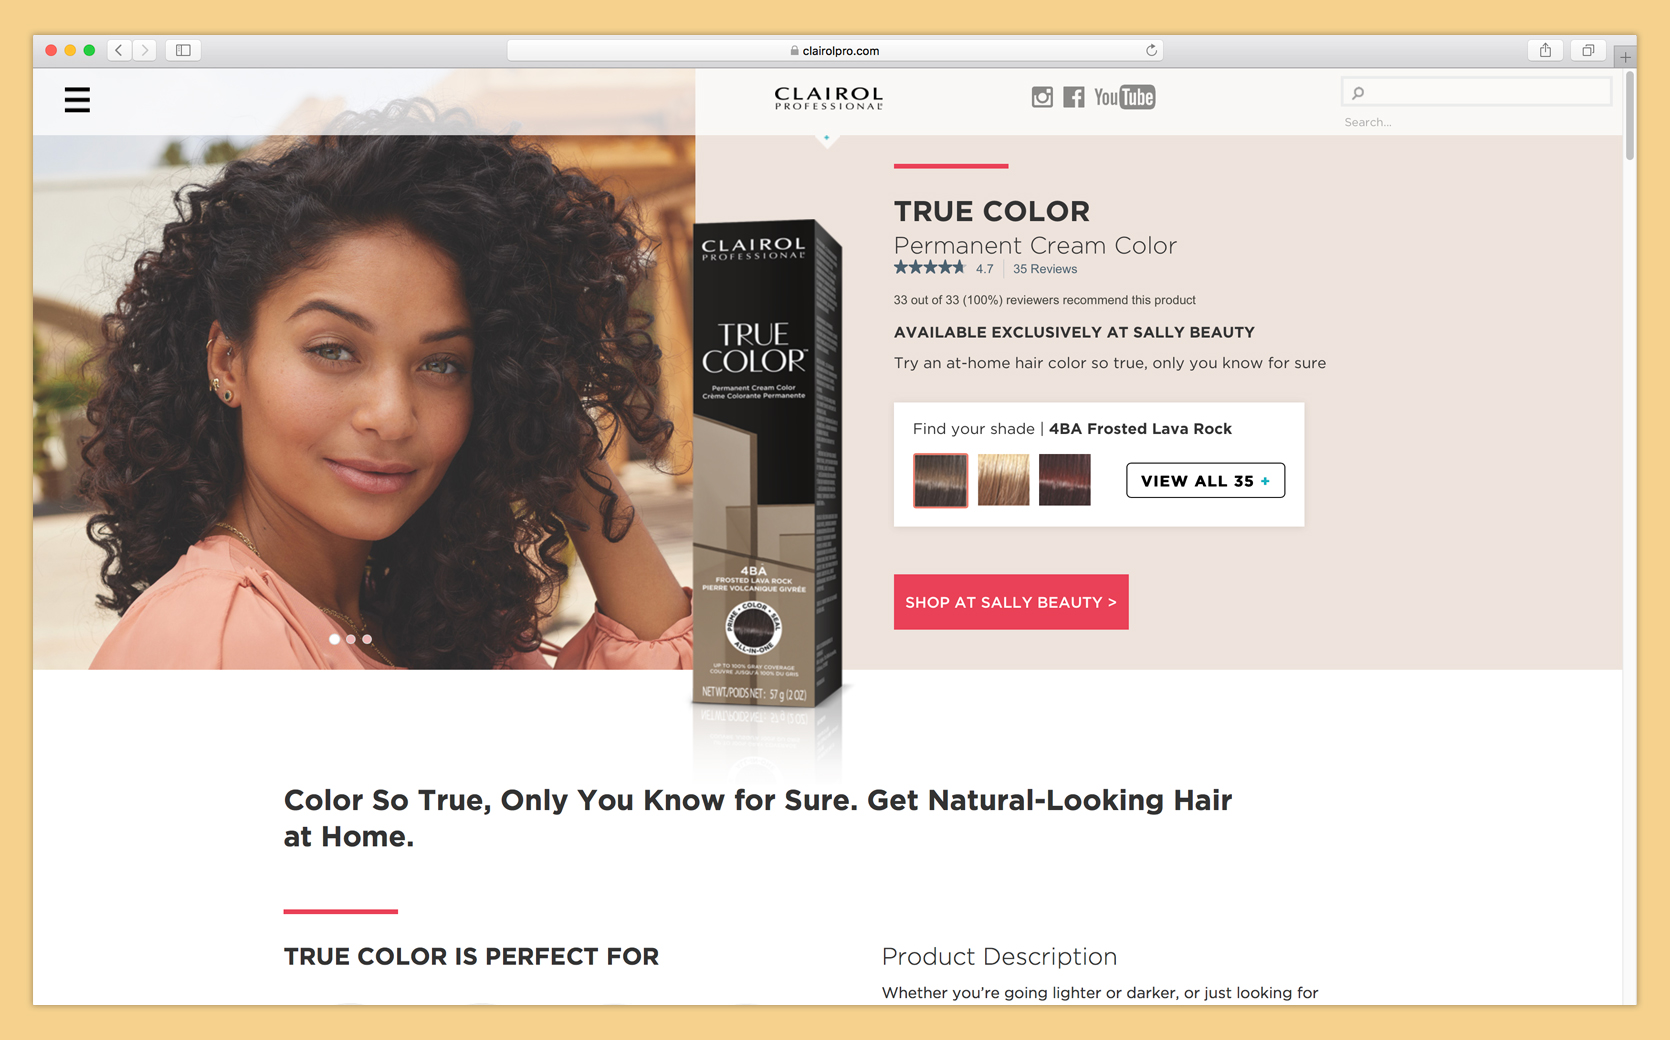
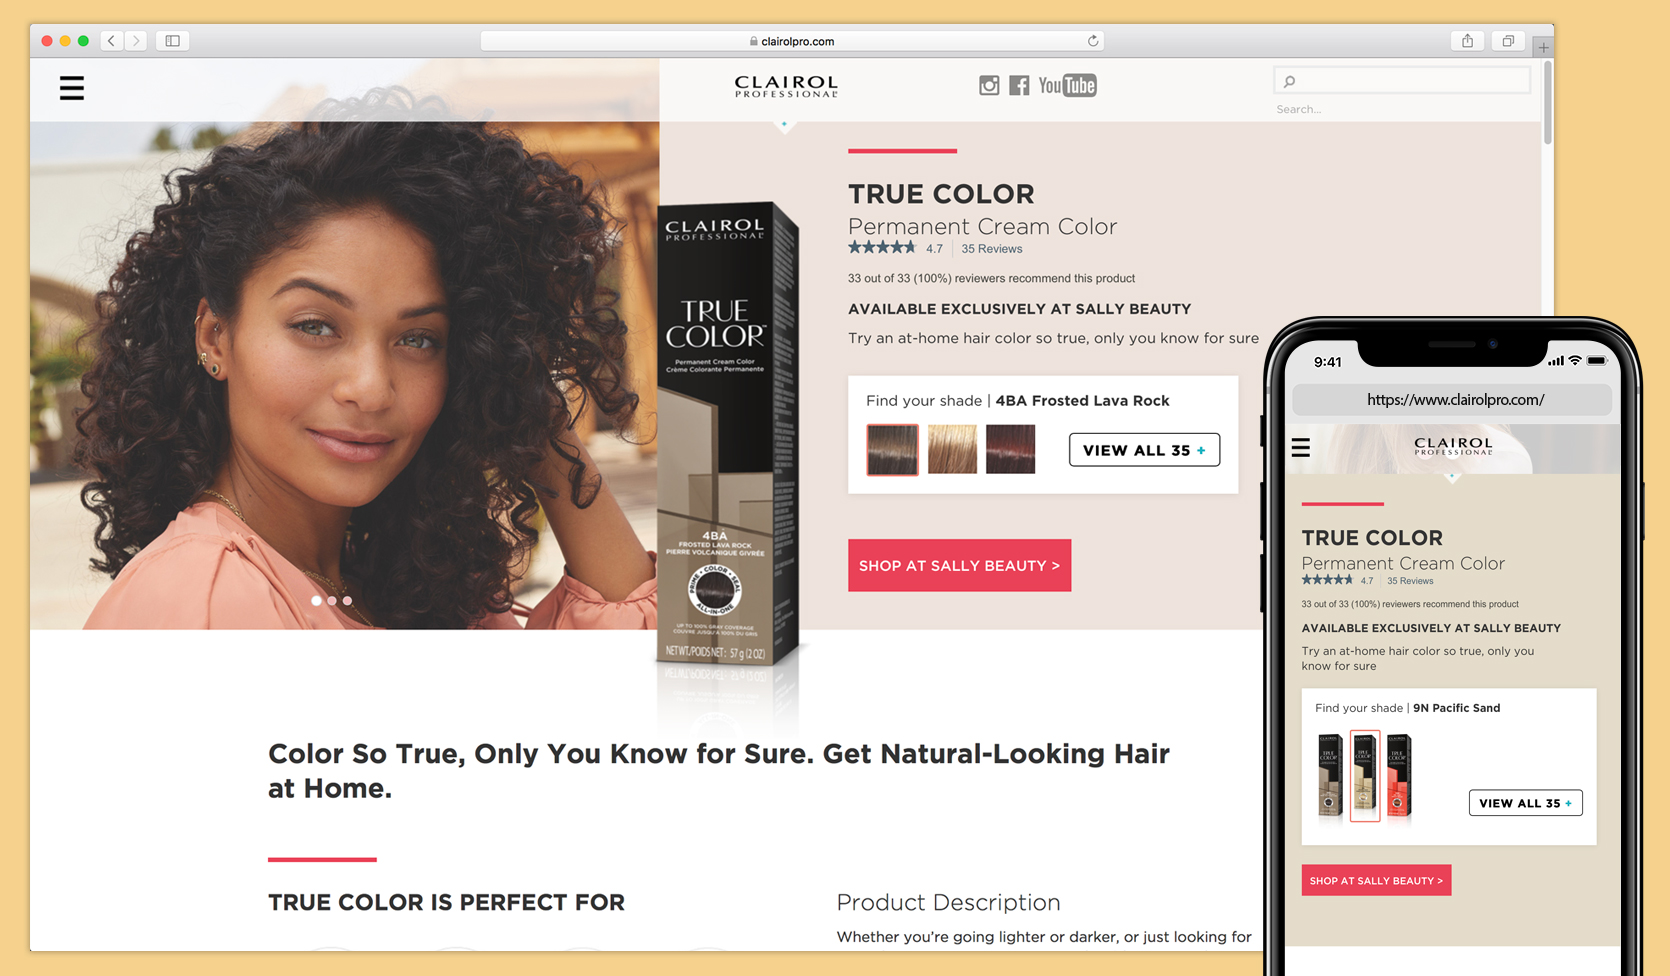
adding portfolio images for first 4 projects

Changed region(s): [[0.0, 0.0, 0.9964, 1.0], [0.0311, 0.6148, 0.0623, 0.6455]]

diff --git a/src/pages/southwest.js b/src/pages/southwest.js
@@ -1,11 +1,13 @@
 import React from 'react'
 import Helmet from 'react-helmet'
 
+import Nav from '../components/Nav'
+import PortfolioNav from '../components/PortfolioNav'
 import Layout from '../components/layout'
-import southwest_desktop from '../assets/images/southwest-desktop.jpg'
+import southwest_desktop from '../assets/images/southwest.jpg'
 import southwest_wireframe from '../assets/images/southwest-wireframe.jpg'
 
-class Generic extends React.Component {
+class Page extends React.Component {
   render() {
 
     return (
@@ -15,14 +17,13 @@ class Generic extends React.Component {
             <h1>Southwest Airlines</h1>
             <p>Origin & Destination Landing Pages</p>
         </header>
+        <PortfolioNav></PortfolioNav>
         <div id="main">
           <section id="content" className="main">
             <h2>Summary</h2>
             <p>In mid-2018 Performics pitched a re-design and build of their origin and destination landing pages, which are generate roughly $100 million in revenue. These new pages were designed to address past issues that Southwest had with these pages, mainly poor conversions and bounce rates. My team had worked in tandem with Southwest's UX team to create several personas that better reflected their current customer who was most likely to book a flight through one of these pages and designed our page to incorporate Southwest's updated branding. A modular based template was then built which would then power approximately 8600 landing pages on Southwest.com.</p>
-            <span className="image main"><img src={southwest_desktop} alt="" width="800" height="auto" /></span>
-            <span className="image secondary"><img src={southwest_wireframe} alt="" width="800" height="auto" /></span>
-            {/*<span className="image secondary"><img src={southwest_mobile} alt="" width="800" height="auto" /></span>*/}
-
+            <span className="image main"><img src={southwest_desktop} alt="" /></span>
+            <span className="image main"><img src={southwest_wireframe} alt="" /></span>
             <h2>Results</h2>
             <p>A mobile first approach was adopted which saw increases in performance, accessiblity and SEO rankings. The new pages also saw a 300% increase in mobile bookings in their first 2 months of being live and continue to be some of the highest performing landing pages on Southwest.com.</p>
             <h2>Role &amp; Technologies Used</h2>
@@ -34,4 +35,4 @@ class Generic extends React.Component {
   }
 }
 
-export default Generic
+export default Page

diff --git a/src/pages/sirva.js b/src/pages/sirva.js
@@ -2,7 +2,11 @@ import React from 'react'
 import Helmet from 'react-helmet'
 
 import Layout from '../components/layout'
-import pic04 from '../assets/images/pic04.jpg'
+
+import sirva_wire1 from '../assets/images/sirva-wire1.jpg'
+import sirva_wire2 from '../assets/images/sirva-wire2.jpg'
+import sirva_wire3 from '../assets/images/sirva-wire3.jpg'
+
 
 class Generic extends React.Component {
   render() {
@@ -19,7 +23,9 @@ class Generic extends React.Component {
             <h2>Summary</h2>
             <p>SIRVA is a global moving and relocation service provider that focuses on corporate clients and leverages technology and analytics to provide industry-leading solutions. SIRVA was a client of Performics' SEO services at the time and were unaware of the agency's user experience and design offerings and mentioned that they were considering a site re-design.
             My team and I pitched a full site UX audit along with new wireframes that were designed to factor in a SIRVA customer's behavior and increase conversions.</p>
-            <span className="image main"><img src={pic04} alt="" /></span>
+            <span className="image main"><img src={sirva_wire1} alt="" /></span>
+            <span className="image main"><img src={sirva_wire2} alt="" /></span>
+            <span className="image main"><img src={sirva_wire3} alt="" /></span>
             <h2>Results</h2>
             <p>Using market research provided to us by SIRVA's marketing department, as well as analytics from SIRVA's exisiting site we were able to craft new wireframes that used a mobile-first approach to better connect with corporate professionals on the go. Elements from the wireframes were then designed, built and A/B tested using Optimizely, with the winners being integrated into the SIRVA site.</p>
             <h2>Role &amp; Technologies Used</h2>

diff --git a/src/pages/devry.js b/src/pages/devry.js
@@ -2,7 +2,9 @@ import React from 'react'
 import Helmet from 'react-helmet'
 
 import Layout from '../components/layout'
-import pic04 from '../assets/images/pic04.jpg'
+
+import devry_site from '../assets/images/devry-site.jpg'
+import devry_wireframe from '../assets/images/devry-wireframe.jpg'
 
 class Generic extends React.Component {
   render() {
@@ -18,7 +20,8 @@ class Generic extends React.Component {
           <section id="content" className="main">
             <h2>Summary</h2>
             <p>In 2017 DeVry University's Keller Graduate School of Management approached Performics about re-designing and building their website with a focus on increased conversions and a better mobile experience. Their previous site was not responsive or optimized for a mobile experience so my team and I decided a mobile first approach was absolutely necessary. Their target demographic for these pages was prospective students between the ages of 22-30 who relied heavily on their mobile devices to search for prospective schools. </p>
-            <span className="image main"><img src={pic04} alt="" /></span>
+            <span className="image main"><img src={devry_site} alt="" /></span>
+            <span className="image main"><img src={devry_wireframe} alt="" /></span>
             <h2>Results</h2>
             <p>The re-designed site saw 25% decrease in load time on mobile devices compared to the old site while the bounce rate decreased 15% from 60% to 45%. The site's copy was also re-written by Performics' in-house copy team which saw increases in SEO rankings and conversions.</p>
             <h2>Role & Technologies Used</h2>

diff --git a/src/pages/clairolpro.js b/src/pages/clairolpro.js
@@ -19,8 +19,8 @@ class Generic extends React.Component {
           <section id="content" className="main">
           <h2>Summary</h2>
             <p>While at Performics we were approached by ClariolPro, an existing client, who were unhappy with their current website and felt that it didn't match the look and feel of a new product launching in the spring of 2019. With minimal assets, my team and I re-designed and developed a new product page for their site that reflected their current branding and was designed to support their goal of increasing conversions and educating customers.</p>
-            <span className="image main"><img src={clairol_wireframe} alt="" /></span>
             <span className="image main"><img src={clairol_desktop} alt="" /></span>
+            <span className="image main"><img src={clairol_wireframe} alt="" /></span>
             <h2>Results</h2>
             <p>The re-designed page saw a 12.4% click-through rate vs. 4.8% for the existing product pages and drove 18% of all site conversions. It was the 3rd most viewed product page on clairolpro.com and saw a bounce rate that was 51% lower than the site average.</p>
             <h2>Role & Technologies Used</h2>

diff --git a/src/pages/lenovo-product.js b/src/pages/lenovo-product.js
@@ -2,7 +2,6 @@ import React from 'react'
 import Helmet from 'react-helmet'
 
 import Layout from '../components/layout'
-import pic04 from '../assets/images/pic04.jpg'
 
 class Generic extends React.Component {
   render() {
@@ -17,7 +16,6 @@ class Generic extends React.Component {
         <div id="main">
           <section id="content" className="main">
             <p>Another Lenovo project I worked on at Blast Radius was building a microsite to support the launch of a new generation of YOGA tablets and laptops. The site needed to demonstrate the benefits of a multi-purpose device while allowing users to explore the different product features without affecting load times or site speed. </p>
-            <span className="image main"><img src={pic04} alt="" /></span>
             <p>The site was designed to showcase the product's unique features and used Ashton Kutcher, a Lenovo product engineer, to demonstrate it's capabilties.</p>
             <h2>Role & Technologies Used</h2>
             <p>I served as the front-end developer on this project, which was built using HTML5, CSS3, jQuery. The site was launched in 58 countries and saw 131,000 visitors in its first week.</p>

diff --git a/src/components/PortfolioNav.js b/src/components/PortfolioNav.js
@@ -1,0 +1,17 @@
+import React from 'react'
+
+const PortfolioNav = (props) => (
+  <nav id="nav" className={props.sticky ? 'alt' : ''}>
+    <li>
+      <a href="#">Previous</a>
+    </li>
+    <li>
+      <a href="../">Home</a>
+    </li>
+    <li>
+      <a href="#">Next</a>
+    </li>
+  </nav>
+)
+
+export default PortfolioNav

diff --git a/src/assets/scss/libs/_vars.scss b/src/assets/scss/libs/_vars.scss
@@ -55,6 +55,6 @@
 		accent3:			#a89cc8,
 		accent4:			#9bb2e1,
 		accent5:			#8cc9f0,
-		bg1:				#423a3b,
-		bg2:				#615e4d
+		bg1:				#f2f2f2,
+		bg2:				#bbbbbb
 	);
